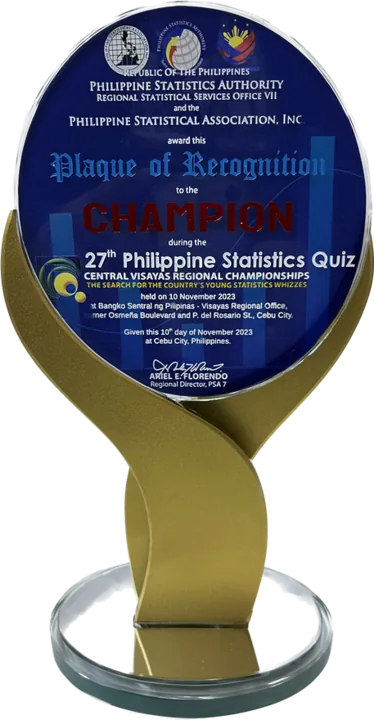
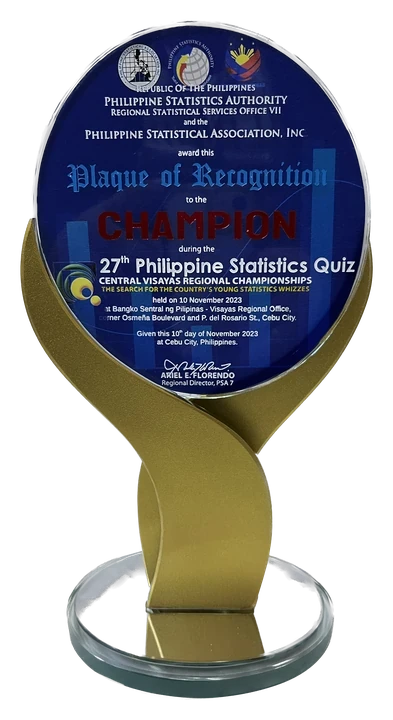
assets: re-cut PSQ trophies with clean transparent cutouts

diff --git a/src/styles/main.css b/src/styles/main.css
@@ -572,6 +572,11 @@ a.sysbar-btn:hover { text-shadow: none; }
    shines through clear pixels and reads as sitting on top of the art. */
 .trophies .gem-win .award-img,
 .badges .gem-cwin .badge-img { background: var(--panel); }
+/* Fanned trio (PSQ): no opaque matte — each photo is rotated, so an opaque
+   box would rotate into visible seams and read as a black backdrop. The
+   trio has no dither bloom (see :has(.win-trio) below), so true transparency
+   blends straight onto the card. */
+.trophies .gem-win .win-trio .award-img { background: transparent; }
 .badges .gem.is-active .badge-disc { color: var(--ink); border-color: var(--ink); }
 .badges .gem-face > * { grid-area: 1 / 1; }
 .badges .badge-disc { width: 40px; height: 40px; font-size: 0.75rem; }
